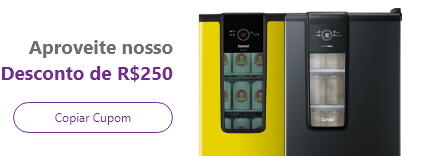
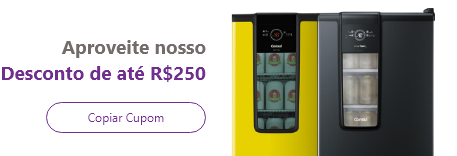
ICD-603 ICD-573 ajuste texto

diff --git a/src/Styles/components/_heading-banner.scss b/src/Styles/components/_heading-banner.scss
@@ -139,12 +139,14 @@
 
 		img {
 			display: block;
-			height: 160px;
-			width: 450px;
+			height: auto;
+			width: auto;
 		}
 	}
 
 	.category-page-top-banner {
+		align-items: flex-end;
+		display: flex;
 		min-height: 160px;
 	}
 }
